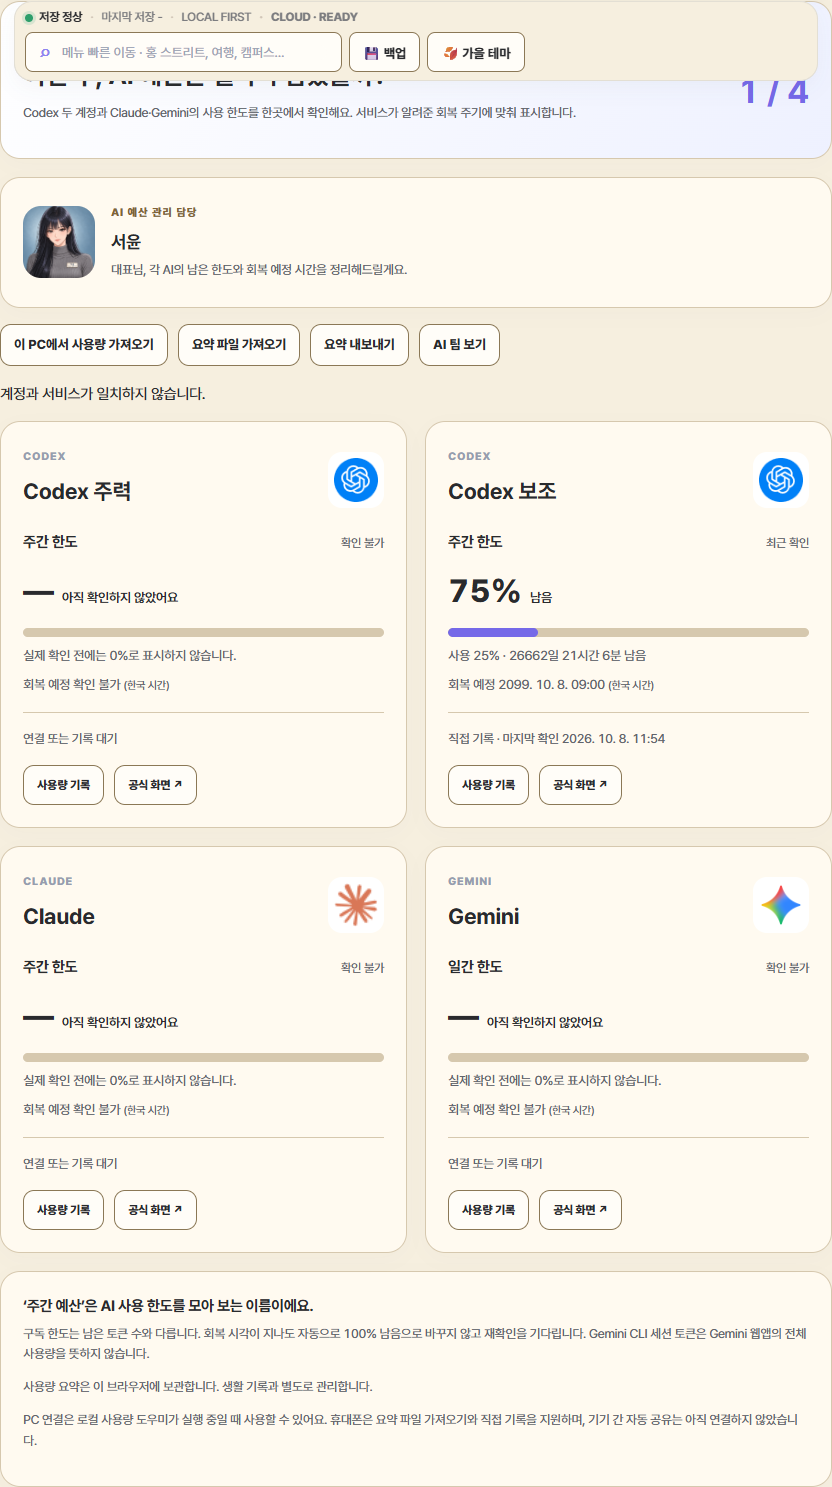
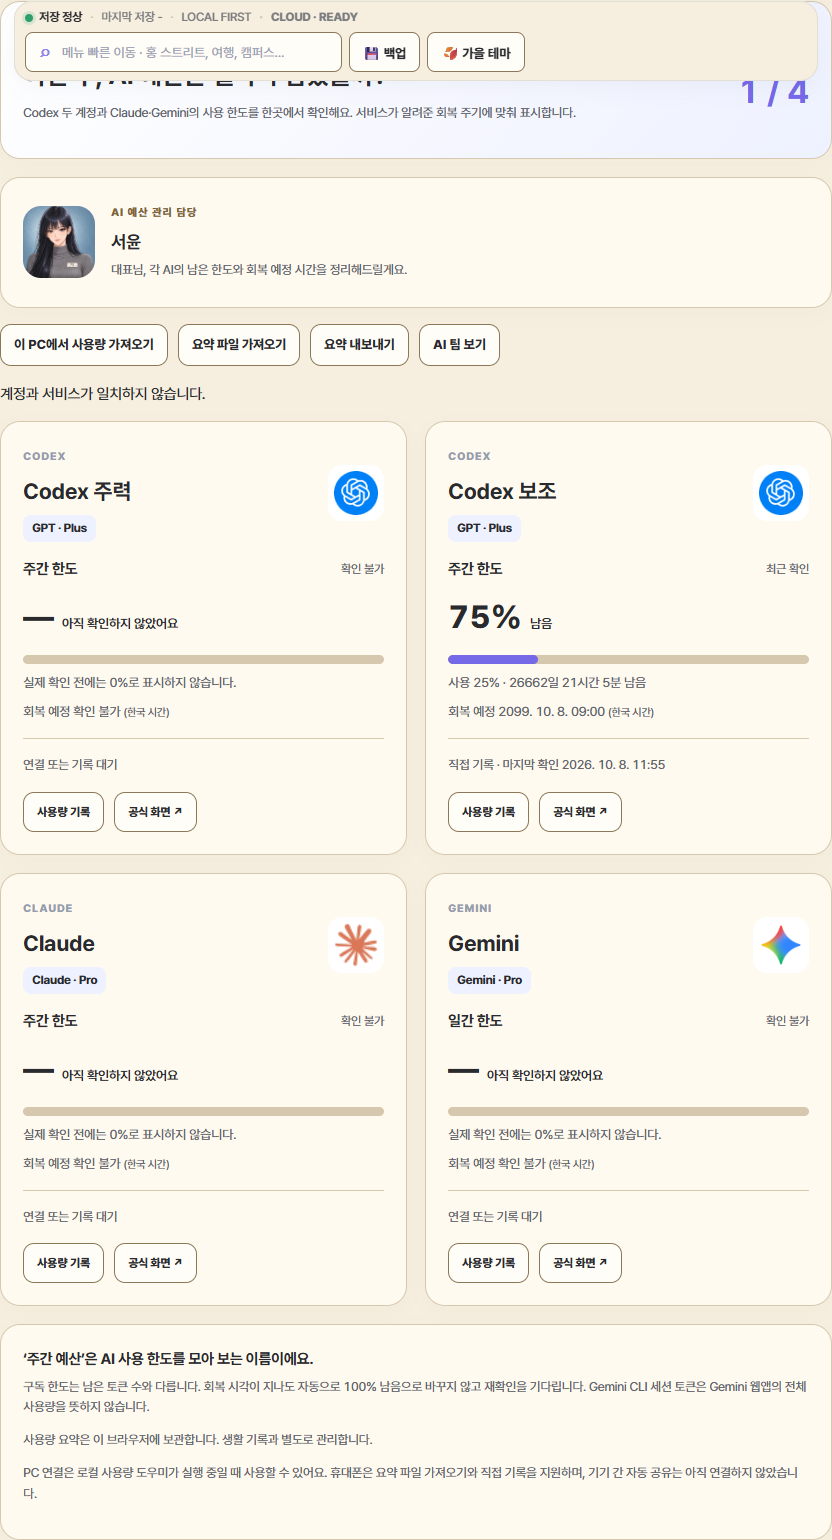
ui: display subscription product names in AI budget

diff --git a/hani-ai-budget.js b/hani-ai-budget.js
@@ -19,7 +19,7 @@
     $('aiBudgetCards').innerHTML=core.slots.map(slot=>{
       const a=summary.accounts.find(x=>x.id===slot.id);
       const windows=a?.windows?.length?a.windows:[{kind:slot.provider==='gemini'?'daily':'weekly',usedPercent:null,resetsAt:null}];
-      return `<article class="budget-account card" data-budget-slot="${slot.id}"><div class="budget-account-head"><div><span class="eyebrow">${slot.provider.toUpperCase()}</span><h3>${slot.label}</h3></div><span class="budget-symbol"><img src="./assets/ai-budget/${slot.provider==='codex'?'openai':slot.provider}.png" alt="${slot.provider==='codex'?'OpenAI':slot.provider==='claude'?'Claude':'Gemini'} 로고" width="44" height="44"></span></div>${windows.map(w=>{const status=core.windowState(a,w),live=['fresh','low','limited'].includes(status),value=w.usedPercent;return `<div class="budget-window ${status}"><div class="budget-window-head"><b>${kinds[w.kind]}</b><span>${states[status]}</span></div><div class="budget-value">${value==null?'—':esc(100-value)+'%'}<small>${value==null?'아직 확인하지 않았어요':live?'남음':'지난 조회의 잔여율'}</small></div><div class="budget-meter" ${value==null?'':'role="meter" aria-label="'+kinds[w.kind]+' 사용률" aria-valuemin="0" aria-valuemax="100" aria-valuenow="'+value+'"'}><i style="width:${value??0}%"></i></div><p>${value==null?'실제 확인 전에는 0%로 표시하지 않습니다.':'사용 '+value+'% · '+esc(countdown(w.resetsAt))}</p><p>회복 예정 ${date(w.resetsAt)} <small>(한국 시간)</small></p></div>`;}).join('')}${a?.tokens?.value!=null?`<p class="budget-token">${a.tokens.scope==='session'?'현재 CLI 세션 토큰':'제공된 누적 토큰'} <b>${a.tokens.value.toLocaleString('ko-KR')}</b><br><small>구독의 남은 토큰 수와는 다릅니다.</small></p>`:''}<p class="sub budget-source">${a?`${source[a.source]} · 마지막 확인 ${date(a.observedAt)}`:'연결 또는 기록 대기'}</p><div class="budget-actions"><button type="button" class="btn sm" data-budget-edit="${slot.id}">사용량 기록</button><a class="btn sm" href="${slot.url}" target="_blank" rel="noopener noreferrer">공식 화면 ↗</a></div></article>`;
+      return `<article class="budget-account card" data-budget-slot="${slot.id}"><div class="budget-account-head"><div><span class="eyebrow">${slot.provider.toUpperCase()}</span><h3>${slot.label}</h3><span class="budget-plan">${slot.provider==='codex'?'GPT · Plus':slot.provider==='claude'?'Claude · Pro':'Gemini · Pro'}</span></div><span class="budget-symbol"><img src="./assets/ai-budget/${slot.provider==='codex'?'openai':slot.provider}.png" alt="${slot.provider==='codex'?'OpenAI':slot.provider==='claude'?'Claude':'Gemini'} 로고" width="44" height="44"></span></div>${windows.map(w=>{const status=core.windowState(a,w),live=['fresh','low','limited'].includes(status),value=w.usedPercent;return `<div class="budget-window ${status}"><div class="budget-window-head"><b>${kinds[w.kind]}</b><span>${states[status]}</span></div><div class="budget-value">${value==null?'—':esc(100-value)+'%'}<small>${value==null?'아직 확인하지 않았어요':live?'남음':'지난 조회의 잔여율'}</small></div><div class="budget-meter" ${value==null?'':'role="meter" aria-label="'+kinds[w.kind]+' 사용률" aria-valuemin="0" aria-valuemax="100" aria-valuenow="'+value+'"'}><i style="width:${value??0}%"></i></div><p>${value==null?'실제 확인 전에는 0%로 표시하지 않습니다.':'사용 '+value+'% · '+esc(countdown(w.resetsAt))}</p><p>회복 예정 ${date(w.resetsAt)} <small>(한국 시간)</small></p></div>`;}).join('')}${a?.tokens?.value!=null?`<p class="budget-token">${a.tokens.scope==='session'?'현재 CLI 세션 토큰':'제공된 누적 토큰'} <b>${a.tokens.value.toLocaleString('ko-KR')}</b><br><small>구독의 남은 토큰 수와는 다릅니다.</small></p>`:''}<p class="sub budget-source">${a?`${source[a.source]} · 마지막 확인 ${date(a.observedAt)}`:'연결 또는 기록 대기'}</p><div class="budget-actions"><button type="button" class="btn sm" data-budget-edit="${slot.id}">사용량 기록</button><a class="btn sm" href="${slot.url}" target="_blank" rel="noopener noreferrer">공식 화면 ↗</a></div></article>`;
     }).join('');
   }
   function openEditor(id){

diff --git a/hani-ai-budget.css b/hani-ai-budget.css
@@ -1,4 +1,5 @@
 #aiBudget{--budget-accent:var(--accent,#7569e8)}
+#aiBudget .budget-plan{display:inline-block;font-size:12px;font-weight:700;padding:4px 9px;border-radius:8px;background:var(--soft,#eef1ff);color:var(--text,#202a42)}
 #aiBudget .budget-manager{display:flex;align-items:center;gap:16px;margin:16px 0}#aiBudget .budget-manager>img{width:72px;height:72px;object-fit:cover;object-position:center 25%;border-radius:18px;flex-shrink:0}#aiBudget .budget-manager h3{margin:5px 0}#aiBudget .budget-manager p{margin:4px 0;line-height:1.6}#aiBudget .budget-symbol{width:56px;height:56px;display:flex;align-items:center;justify-content:center;background:#fff;border-radius:14px;flex-shrink:0}#aiBudget .budget-symbol img{display:block;width:44px;height:44px;object-fit:contain}
 #aiBudget .budget-hero{display:flex;justify-content:space-between;align-items:center;gap:20px;background:linear-gradient(130deg,var(--card,#fff),var(--soft,#eef1ff));margin-bottom:18px}
 #aiBudget .budget-hero h2{margin:8px 0;font-size:26px}#aiBudget .budget-hero p{max-width:620px;line-height:1.65}

diff --git a/docs/development-history/handoffs/2026-10-08-ai-weekly-budget.md b/docs/development-history/handoffs/2026-10-08-ai-weekly-budget.md
@@ -23,4 +23,5 @@
 - Independent Arin/HINA, 실제 인증 UI, Production HTTPS→localhost 권한, main/Pages/read-back 미검증. 개인 실제 사용량 요약은 공개 사이트 패키지에 포함 금지.
 - 함께 배포할 Edge Function 없음. 로컬 Node 도우미 실행 필요. 기기 간 자동 공유는 비공개 저장 설계/승인 필요.
 - 현재는 기능 일부가 준비된 1차 후보이며 네 서비스의 완전 자동 연동 완료가 아님.
+- 대표님 지정 표시: Codex 주력/보조, 두 카드 상품명 GPT · Plus. Claude · Pro, Gemini · Pro. 상품명은 사용자 제공 정보이며 자동 구독 조회·검증 완료로 해석하지 않음. 계정 ID/수집·저장 경로 불변.
 - 후속 사용자 요청: 관리 담당을 서윤으로 지정하고 임시 문자 아이콘 대신 실제 로고 적용. 기존 서윤 v7 프로필과 공식 사이트의 OpenAI/Claude/Gemini 원본 자산을 로컬 번들로 반영. Codex는 공급자 OpenAI 로고와 Codex 이름을 함께 표시. 출처 assets/ai-budget/SOURCES.md. PC1440/모바일390 화면·담당명·4개 로고 및 이미지 로딩 검사 PASS. 데이터/수집 기능은 변경 없음.
